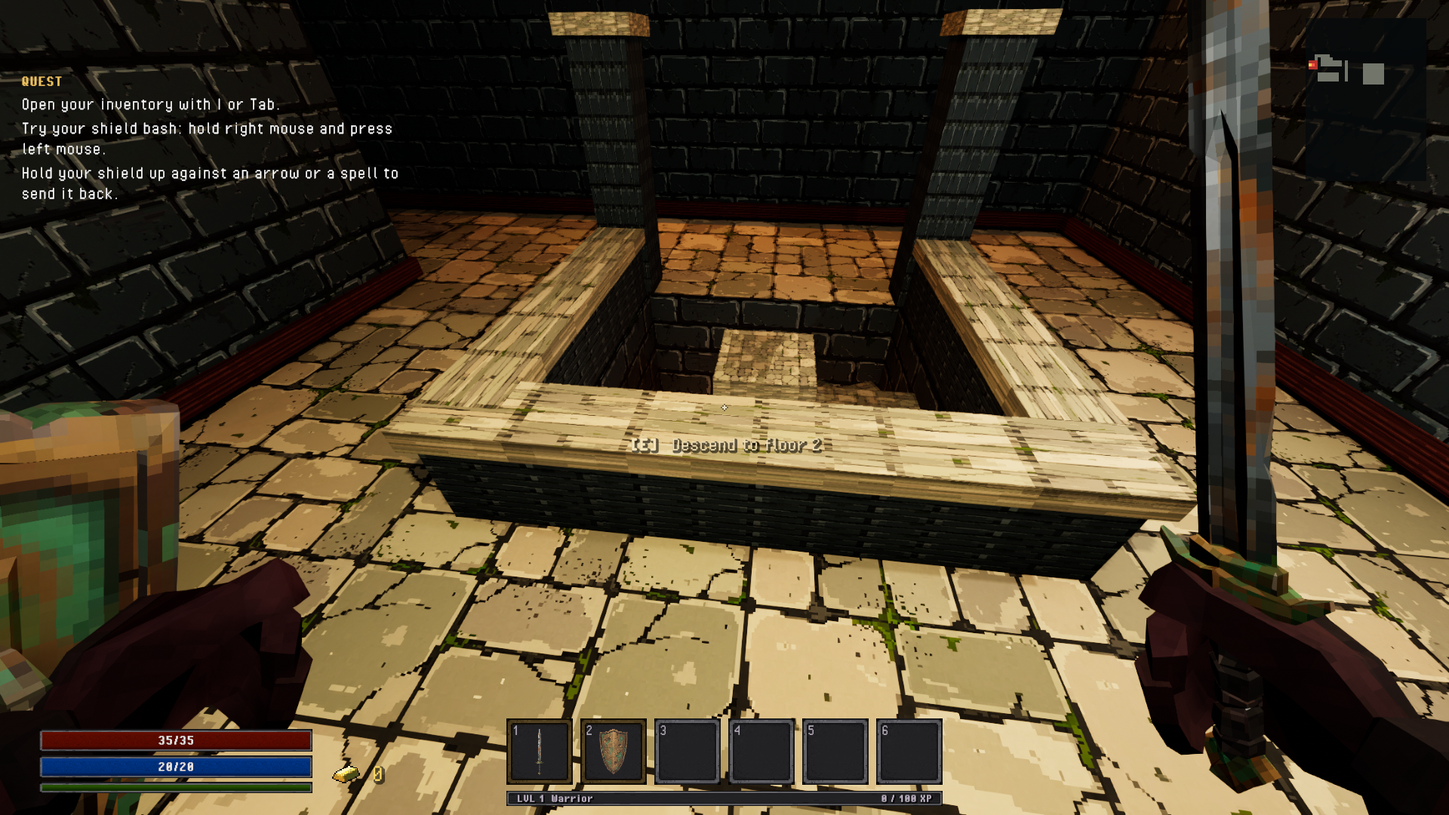
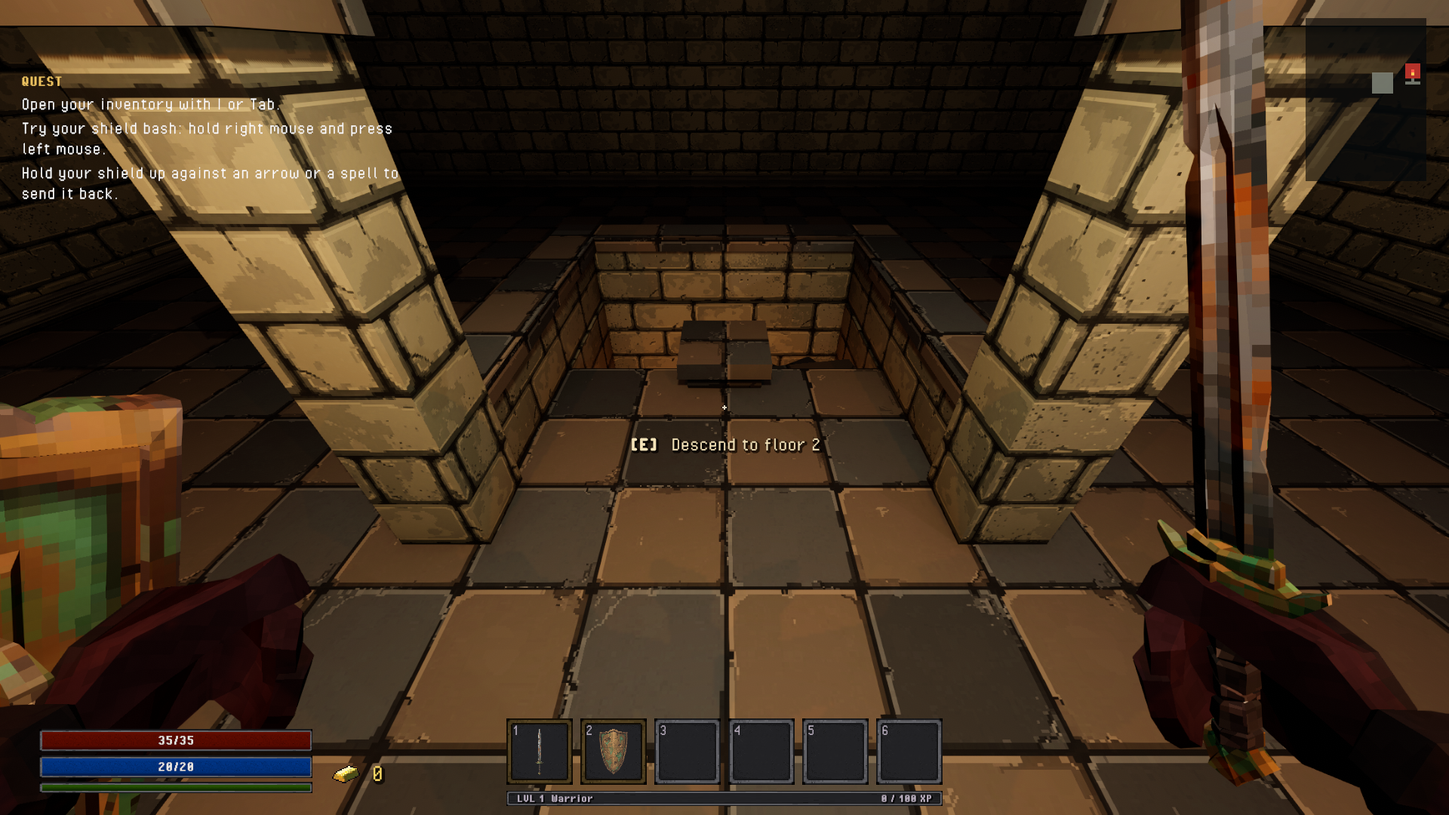
Level up plays only its sting, the UI Library's levelUp (now Mgc_Fading_Drops_Fire_01, saved in Room.unity, where it had only been set in the editor); the stat lines on the level up panel come in silently (LevelUpUI's tick removed). Work in progress from the other sessions: the exit shaft's stairs a

diff --git a/Assets/Game/Levels/Scripts/DungeonGenerator.ExitShaft.cs b/Assets/Game/Levels/Scripts/DungeonGenerator.ExitShaft.cs
@@ -23,7 +23,7 @@ public partial class DungeonGenerator
         // Every neighbour must be floor of the same room, so the kerb stands on floor all round.
         foreach (var d in DungeonLayout.Neighbours) if (!Layout.InRoom(region, cell + d)) return;
         float floorY = Cell(cell).y, size = data.cellSize;
-        float depth = Mathf.Min(2.6f, TableCut.SolidDepth(CellRect(cell), floorY) - .24f - .1f);
+        float depth = Mathf.Min(2f, TableCut.SolidDepth(CellRect(cell), floorY) - .24f - .1f);
         if (depth < 1.2f) return;
 
         // Open toward the room's way in (the doorway cell nearest the shaft).
@@ -107,20 +107,21 @@ public partial class DungeonGenerator
             }
         }
 
-        // The newel and the spiral: steps round it, each lower and further round, darker the deeper.
+        // The spiral starts at the mouth: the first step runs from the newel out to the mouth's edge, its top level with
+        // the floor, so the player walks straight onto it; the rest go on round the newel and down, each step wider
+        // than the gap to the next and reaching from the newel to the wall, darker the deeper.
         float newelR = .22f;
-        Part("Newel", new Vector3(0, -depth * .5f + .1f, .15f), new Vector3(newelR * 2f, depth + .2f, newelR * 2f), stone, .8f);
-        Part("Newel cap", new Vector3(0, .15f, .15f), new Vector3(newelR * 2f + .1f, .1f, newelR * 2f + .1f), stone);
-        int steps = 13; float turn = 330f / steps;
-        var axis = new Vector3(0, 0, .15f);
+        Part("Newel", new Vector3(0, -depth * .5f + .1f, 0), new Vector3(newelR * 2f, depth + .2f, newelR * 2f), stone, .8f);
+        Part("Newel cap", new Vector3(0, .15f, 0), new Vector3(newelR * 2f + .1f, .1f, newelR * 2f + .1f), stone);
+        int steps = 11; float start = 0f, turn = 330f / steps;
+        float rise = (depth - .3f) / (steps - 1), reach = half - .03f - newelR, r = newelR + reach * .5f;
+        float width = 2f * Mathf.PI * (newelR + reach) * (turn / 360f) + .08f;   // the outer edge overlaps the next step
         for (int i = 0; i < steps; i++)
         {
-            float a = -90f + i * turn, rad = a * Mathf.Deg2Rad;      // from the mouth side round the back
-            float y = -(i + 1) * (depth / (steps + .5f));
-            float r = newelR + (half - .08f - newelR) * .5f;
-            var at = axis + new Vector3(Mathf.Sin(rad) * r, y, -Mathf.Cos(rad) * r);
-            var s = Part("Spiral step", at, new Vector3(.42f, .1f, (half - .08f - newelR) + .04f), stone, Mathf.Lerp(.75f, .05f, i / (steps - 1f)), 0f, null, true);
-            // Each step's length runs out from the newel.
+            float a = start + i * turn, rad = a * Mathf.Deg2Rad;
+            float top = -i * rise;
+            var at = new Vector3(Mathf.Sin(rad) * r, top - .06f, -Mathf.Cos(rad) * r);
+            var s = Part("Spiral step", at, new Vector3(width, .12f, reach), stone, Mathf.Lerp(1f, .4f, i / (steps - 1f)), 0f, null, true);
             s.transform.rotation = root.rotation * Quaternion.LookRotation(new Vector3(Mathf.Sin(rad), 0f, -Mathf.Cos(rad)));
         }
         // Far below: a warm glow, as if a lamp burns on the next floor.

diff --git a/Assets/Game/Levels/Scripts/DungeonHud.cs b/Assets/Game/Levels/Scripts/DungeonHud.cs
@@ -7,6 +7,7 @@ public class DungeonHud : MonoBehaviour
     GameObject canvasRoot;
     Texture2D map;
     bool[,] shop, exitRoom;
+    bool pocket;
     RawImage mapImage;
     bool[,] explored;
     float next;
@@ -47,8 +48,10 @@ public class DungeonHud : MonoBehaviour
         {
             shop=new bool[w,h];exitRoom=new bool[w,h];
             if(dungeon.MerchantRoom>=0)foreach(var c in dungeon.Layout.RoomCells(dungeon.MerchantRoom))if(c.x>=0 && c.y>=0 && c.x<w && c.y<h)shop[c.x,c.y]=true;
-            int exit=dungeon.Layout.RoomAt(dungeon.Layout.Exit);
-            if(exit<0 && dungeon.Roles!=null)exit=System.Array.IndexOf(dungeon.Roles,DungeonGenerator.RoomRole.Exit);
+            // A pocket (the Skeleton Party) has no exit: its last room is where the portal back stands.
+            pocket=dungeon.LevelData!=null && dungeon.LevelData.pocket;
+            int exit=pocket ? -1 : dungeon.Layout.RoomAt(dungeon.Layout.Exit);
+            if(exit<0 && !pocket && dungeon.Roles!=null)exit=System.Array.IndexOf(dungeon.Roles,DungeonGenerator.RoomRole.Exit);
             if(exit>=0)foreach(var c in dungeon.Layout.RoomCells(exit))if(c.x>=0 && c.y>=0 && c.x<w && c.y<h)exitRoom[c.x,c.y]=true;
         }
         for(int x=0;x<w;x++)for(int y=0;y<h;y++)
@@ -58,7 +61,7 @@ public class DungeonHud : MonoBehaviour
             if(explored[x,y] && dungeon.Layout.floor[x,y])color=shop[x,y] ? new Color(.36f,.68f,.34f,.95f) : new Color(.46f,.48f,.43f,.92f); // the shop room shows green
             // The exit room shows red, its stairs a brighter red.
             if(explored[x,y] && dungeon.Layout.floor[x,y] && exitRoom[x,y])color=new Color(.72f,.2f,.17f,.95f);
-            if(explored[x,y] && new Vector2Int(x,y)==dungeon.Layout.Exit)color=new Color(1f,.35f,.28f);
+            if(!pocket && explored[x,y] && new Vector2Int(x,y)==dungeon.Layout.Exit)color=new Color(1f,.35f,.28f);
             if(x==px && y==py)color=new Color(1,.8f,.33f);
             map.SetPixel(x,y,color);
         }

diff --git a/Assets/Game/UI/Scripts/LevelUpUI.cs b/Assets/Game/UI/Scripts/LevelUpUI.cs
@@ -4,7 +4,7 @@ using TMPro;
 using UnityEngine;
 
 // The level up at the top middle of the screen: "LEVEL UP" lands big with the level under it, then what the level
-// gave comes in one line at a time with a soft tick ("+3 Health"), each line fading away a while after it came, the
+// gave comes in one line at a time ("+3 Health"), each line fading away a while after it came, the
 // title last. A second level while it shows starts it again with the new level and both levels' lines. Authored under
 // the HUD canvas: a group, the title, the level line and one stat line template (switched off, cloned per line).
 // The level up sting itself is AudioManager's levelUp key (AdventurerProgress plays it).
@@ -14,8 +14,6 @@ public class LevelUpUI : MonoBehaviour
     [SerializeField] TMP_Text title;
     [SerializeField] TMP_Text levelLine;
     [SerializeField, Tooltip("One stat line, switched off; cloned per line.")] TMP_Text statTemplate;
-    [SerializeField] AudioClip statSound;
-    [SerializeField, Range(0f, 1f)] float statVolume = .6f;
     [SerializeField, Min(0f), Tooltip("From the title landing to the first stat line, then between lines.")] float firstStatDelay = .7f, statGap = .45f;
     [SerializeField, Min(0f), Tooltip("How long each stat line stays before it fades.")] float statHold = 2.2f;
     [SerializeField, Min(.05f)] float statFade = .8f;
@@ -106,7 +104,6 @@ public class LevelUpUI : MonoBehaviour
             line.alpha = 0f;
             lines.Add(line);
             var rect = line.rectTransform;
-            show.InsertCallback(at, () => { if (statSound != null && AudioManager.HasInstance) AudioManager.Instance.PlaySFX2D(statSound, statVolume); });
             show.Insert(at, line.DOFade(1f, .2f));
             show.Insert(at, DOTween.To(() => 0f, x => rect.localScale = Vector3.one * (1.25f - .25f * x), 1f, .25f).SetEase(Ease.OutQuad));
             show.Insert(at + statHold, line.DOFade(0f, statFade).OnComplete(() => gone.Add(line)));

diff --git a/CLAUDE.md b/CLAUDE.md
@@ -56,7 +56,7 @@ All game code lives in `Assets/Game/<Area>/Scripts` (paths below are relative to
 | Dungeon Master's words | Two systems. **Simple lines with audio**: lines typed on the components that say them (`DungeonMaster.Line`: text, voice `AudioData`, mumble, in person or in your head) and each level's Dialogue tab, plus the biome entry lines; said through `DungeonMaster.Say`. `Dialogue/Scripts/DungeonMasterRemarks.cs` (on the Dialogue Manager) decides when each plays (waking, idling, the door, a forgotten figure, sitting down, run start, a new deepest floor). **Conversations**: the Pixel Crushers Dialogue Database, `Table/Introduction` (the first time you talk to the DM; the table only answers "Talk to me first" until then, and the player goes to the figures when it ends) and `Room/Talk` (talking to the DM afterwards; choices filtered with Lua `GetFlag`, "Let's play." sets Lua `PlayNow` and goes to the table), shown by `Dialogue/UI/DM Dialogue UI` (a variant of the plugin's Computer Standard Dialogue UI styled like the DM feed: no names, PixelOperator at the feed's size and place (its foot 250 up, 1200 wide, the Dialogue Manager's canvas scaled like the HUD's, 1920 x 1080), whole lines with no typewriter, DM lines in the feed's cyan and quoted by `DialogueBridge.OnConversationLine`, choices just under the line, dim until hovered). The DM sits in a chair in the middle of the table's east long side, facing the player's side; `DungeonMasterSeat` on its Interact trigger plays the seated pose and gesture and starts the conversations. Story flags are `story.*` |
 | Run length and bosses | A dungeon's run is its Run tab's stages: each a biome, its number of floors and **Boss on last floor** (`TableLevelData.BiomeStage.boss`: the biome's guardian waits on the stage's last floor; off, the stage has no boss whatever the biome sets up); the read-only "The run" line spells it out (e.g. Floors 1-2 Cellars, Floors 3-4 Crypt (boss on 4)). Dungeon1 (the demo) is three floors, one biome each: Cellars (floor 1), Catacombs (floor 2, a copy of Cellars whose second-floor entries start on its first floor), Crypt (floor 3, the Crypt Lord; no stairs until he falls, then they read "Complete dungeon and return" and end the run in victory). Room styles come from the biomes only (the level's own Room Styles list is empty), two each: Cellars Church and Church4, Catacombs Church3 and Church6, Crypt Church2 and Church5. Every floor has a merchant (biome `merchantChance` 1). After the whole dungeon is won, using the table has the DM thank the player for playing the prototype, then a thank-you card (`Cinematics/Scripts/PrototypeEnd.cs` on TableManager, card authored next to the ending's end card) |
 | Table levels (town, dungeons) | `Levels/Scripts/*` (`TableLevelLoader`, `TableLevelReveal`, `DungeonGenerator` + `DungeonGenerator.Growth`, `DungeonLayout` + `DungeonLayout.Grown`, shapes in `DungeonShape`/`DungeonRoomShape`, furnishing in `DungeonPropRule`...), catalog `Levels/Resources/TableLevels.asset`. The level's `startingRoom` is a room template prefab (Dungeon1: `Rooms/Templates/Starting room`) used as room 0 on floor 1 and on the first floor of each new biome; the player spawns at its centre facing its one door, which gets the level's door prefab (Grown layouts). Layout styles are Grown (the default) and Authored; Partition is retired (a level still set to it builds as Grown with a warning). A `DungeonRoomTemplate` can hold a whole room: painted footprint (`DungeonShapeGrid`, shared with `DungeonRoomShape`), style, height in tiles, `WallLight` sockets; in Prefab Mode it shows an unsaved preview of floor, walls and socket lights. Openings (Layout tab): Hide Roof opens skylights (a ceiling frame of `skylightFrame` with a trim lip stays round each opening; neighbouring open cells join into one), Hide Edges puts windows in outer walls (sill, lintel, jambs and ledge; the full wall stays as collision). A template's `openCeiling` gives its room a near-full skylight (the starting room's way in; the reveal flies through it). Walls, floors and ceilings are merged per material (`DungeonStaticGeometry`; the pieces keep their colliders, switched-off renderers): 8-cell chunks at build, so the reveal lifts the floor in pieces, then 32-cell chunks once the reveal is over (`DungeonGenerator.MergeForPlay` from `TableLevelLoader`, `Coarsen`); chunks of only floor tiles cast no shadow (12% fewer draw calls on Dungeon1 floor 1). When the exit room doesn't fit the grid the newest grown rooms give up their place (`DungeonLayout.RemoveLastRoom`). Template props standing in a doorway are removed (`DungeonGenerator.ClearOpenings`; a portal, shrine, chest or merchant is moved a cell in instead). Ceilings are built in the reveal (after walls); with `WorldManager.hideTopForGenerations` (on) a generated floor shows no ceilings while it is seen from the room (the reveal included) and gets them back when the table player is inside (`DungeonGenerator.ShowCeilingsFor`) |
-| UI | `UI/Scripts/*`. `AnnouncementUI.Show(title, sub)` is the centre-screen line. HUD text over the world (interact prompt, gold counter, loot labels) and the XP bar's words use an underlay material (`UI/Fonts/PixelOperator Underlay.mat`, `PixelOperator-Bold Bar Text.mat`) so they read over bright props and the bar's fill; the boss bar is bright red with a light frame line. HUD lanes: the skill XP popup sits under the top bars, notifications under the DM feed, announcements wait while the level-up panel shows; the quest note shows only while exploring (not in menus, boss fights or the win ending, `TableManager.EndingRunning`); hotbar, vitals and XP bar fade out behind the shop, sheet and recap; the DM feed has a soft dark halo; notifications are off-white. **Settings** is one prefab (`UI/Prefabs/Settings screen.prefab`) used by the pause menu and the main menu (the menu scene has an InputManager for rebinding only; volumes and pixelation fall back to PlayerPrefs there): window mode, resolution, vsync, brightness (its own global volume, `UserSettings`), key rows incl. hotbar 1-6 and Pause in a scrolling list; key names are layout-independent. The pause menu has Main menu and Quit, both confirmed ("Your run picks up at the start of this floor" during a run). A character level gained in a run shows `UI/Scripts/LevelUpUI.cs` (HUD canvas > `Level up`, top middle; fed by `AdventurerProgress.LeveledUp`): "LEVEL UP" lands big with the level under it, then each gain ("+3 Health") comes in one at a time with a tick and fades; a level-up and the skill rank popup (`ExperienceBarUI`) take turns: a level-up waits for a popup already on screen, then goes ahead of the queued ones (`LevelUpUI.PlayWaiting`, `ExperienceBarUI.Resume`); each XP gain (a kill, a new floor) shows the level meter at the top middle (`UI/Scripts/LevelMeterUI.cs`, HUD canvas > `Level meter`: "LEVEL n", the gain as a pale stretch ahead of the fill, the fill running into it with a bright edge, a flash and the next level when one is reached, "+24 XP" rising beside it, then fading); the character panel has a thin level line under "LEVEL n" (`EquipmentPanelUI.levelProgress`, made by Character Panel Layout); the sting is AudioManager's `levelUp` key, `Audio/Clips/Level up/{Level up,Level up stat}.wav` from `Tools/level_up_sting.py`. Shop music: a `Merchant` crossfades to its `musicKey` (Music Library "shop") when the table player comes within `musicRadius` (8 m) and back to the floor's track, from where it left off, past `musicLeaveRadius` (11 m) or when the merchant goes (`AudioManager.CrossfadeMusic(key)`, `CrossfadeMusicAt`). One-shot sound effects share `AudioManager`'s 48-source pool (`sfxPoolSize`; Project Settings > Audio real voices 64): one clip plays at most `maxSameClip` (3) times at once and never twice within `sameClipGap`, and a full pool cuts the quietest or farthest sound (logged in development builds, `logCutSounds`). UI sounds, including skillUp, levelUp, shopTrade and the dmMumble1..6 syllables, are keys in AudioManager's UI Library. The DM's mumble voice is picked on AudioManager (Dungeon Master voice: `MumbleVoice` Syllables, Old, Blips, Animalese, Kazoo, Choir, Beast, Lute, Radio; `AudioManager.Voice.cs`; Old is `Audio/Data/DM babble.asset` from `Tools/dm_babble.py`, the rest `Audio/Data/DM voice <Voice>.asset` from `Tools/dm_voices.py <dir> <seed> <voice>`, each made a different way), with Test buttons that work outside Play mode. UI colours live on `UIManager` (Theme: shadow, panel, panel shading, frame, frame highlight, text, dim text; Status: health, mana, stamina, experience, gold, boss health, recent damage). Opt-in only: kit art follows the Theme through the `Kit Palette` material (a UI that should differ gets a copy of that material), other graphics follow a slot with a `UIColor` component. Kit sprites are greyscale value maps (black shadow, dark grey panel, light grey to white frame to highlight). All HUD menus use the inventory's look (plain grey frame panels, plain grey slot buttons that tint on hover, gold PixelOperator-Bold titles); `Tools > LoomRoom > UI > Apply Plain Style` (`UI/Scripts/Editor/PlainUIStyle.cs`) converts any panel, button or inset still on the old kit. The HUD (hotbar, health/mana/stamina bars, XP bar, buff frames, spell charge) follows `UIManager.hudStyle` (`HudStyle` Pixel = the old pixel kit, Rugged = the inventory's grey stone slots and frames with flat bar fills; default Rugged): each of its images has a `HudStyleImage` holding both looks, switched live also outside Play mode, and hotbar slots take their Rugged colours and gold equipped frame in `ItemSlotUI` (the hotbar marks what is in hand, weapon, shield and readied spell, with that gold frame in both HUD styles, `ItemSlotUI.equippedHighlight`); `Tools > LoomRoom > UI > Set Up HUD Styles` (`UI/Scripts/Editor/HudStyleSetup.cs`) adds both looks to new HUD images. The older kit is in `UI/Sprites/Kit` (sliced at 1/3 pixels-per-unit multiplier) and the TMP fonts `PixelOperator-Bold` (titles, numbers) and `PixelOperator` (body), the only pixel font (PIXEARG_ was removed on 2026-10-15). Table menu: `UI/Prefabs/Adventure/{Table adventures,Adventure Card}` |
+| UI | `UI/Scripts/*`. `AnnouncementUI.Show(title, sub)` is the centre-screen line. HUD text over the world (interact prompt, gold counter, loot labels) and the XP bar's words use an underlay material (`UI/Fonts/PixelOperator Underlay.mat`, `PixelOperator-Bold Bar Text.mat`) so they read over bright props and the bar's fill; the boss bar is bright red with a light frame line. HUD lanes: the skill XP popup sits under the top bars, notifications under the DM feed, announcements wait while the level-up panel shows; the quest note shows only while exploring (not in menus, boss fights or the win ending, `TableManager.EndingRunning`); hotbar, vitals and XP bar fade out behind the shop, sheet and recap; the DM feed has a soft dark halo; notifications are off-white. **Settings** is one prefab (`UI/Prefabs/Settings screen.prefab`) used by the pause menu and the main menu (the menu scene has an InputManager for rebinding only; volumes and pixelation fall back to PlayerPrefs there): window mode, resolution, vsync, brightness (its own global volume, `UserSettings`), key rows incl. hotbar 1-6 and Pause in a scrolling list; key names are layout-independent. The pause menu has Main menu and Quit, both confirmed ("Your run picks up at the start of this floor" during a run). A character level gained in a run shows `UI/Scripts/LevelUpUI.cs` (HUD canvas > `Level up`, top middle; fed by `AdventurerProgress.LeveledUp`): "LEVEL UP" lands big with the level under it, then each gain ("+3 Health") comes in one at a time and fades (no sound of its own); a level-up and the skill rank popup (`ExperienceBarUI`) take turns: a level-up waits for a popup already on screen, then goes ahead of the queued ones (`LevelUpUI.PlayWaiting`, `ExperienceBarUI.Resume`); each XP gain (a kill, a new floor) shows the level meter at the top middle (`UI/Scripts/LevelMeterUI.cs`, HUD canvas > `Level meter`: "LEVEL n", the gain as a pale stretch ahead of the fill, the fill running into it with a bright edge, a flash and the next level when one is reached, "+24 XP" rising beside it, then fading); the character panel has a thin level line under "LEVEL n" (`EquipmentPanelUI.levelProgress`, made by Character Panel Layout); the sting is AudioManager's `levelUp` key, set on the UI Library (now `Mgc_Fading_Drops_Fire_01`). Shop music: a `Merchant` crossfades to its `musicKey` (Music Library "shop") when the table player comes within `musicRadius` (8 m) and back to the floor's track, from where it left off, past `musicLeaveRadius` (11 m) or when the merchant goes (`AudioManager.CrossfadeMusic(key)`, `CrossfadeMusicAt`). One-shot sound effects share `AudioManager`'s 48-source pool (`sfxPoolSize`; Project Settings > Audio real voices 64): one clip plays at most `maxSameClip` (3) times at once and never twice within `sameClipGap`, and a full pool cuts the quietest or farthest sound (logged in development builds, `logCutSounds`). UI sounds, including skillUp, levelUp, shopTrade and the dmMumble1..6 syllables, are keys in AudioManager's UI Library. The DM's mumble voice is picked on AudioManager (Dungeon Master voice: `MumbleVoice` Syllables, Old, Blips, Animalese, Kazoo, Choir, Beast, Lute, Radio; `AudioManager.Voice.cs`; Old is `Audio/Data/DM babble.asset` from `Tools/dm_babble.py`, the rest `Audio/Data/DM voice <Voice>.asset` from `Tools/dm_voices.py <dir> <seed> <voice>`, each made a different way), with Test buttons that work outside Play mode. UI colours live on `UIManager` (Theme: shadow, panel, panel shading, frame, frame highlight, text, dim text; Status: health, mana, stamina, experience, gold, boss health, recent damage). Opt-in only: kit art follows the Theme through the `Kit Palette` material (a UI that should differ gets a copy of that material), other graphics follow a slot with a `UIColor` component. Kit sprites are greyscale value maps (black shadow, dark grey panel, light grey to white frame to highlight). All HUD menus use the inventory's look (plain grey frame panels, plain grey slot buttons that tint on hover, gold PixelOperator-Bold titles); `Tools > LoomRoom > UI > Apply Plain Style` (`UI/Scripts/Editor/PlainUIStyle.cs`) converts any panel, button or inset still on the old kit. The HUD (hotbar, health/mana/stamina bars, XP bar, buff frames, spell charge) follows `UIManager.hudStyle` (`HudStyle` Pixel = the old pixel kit, Rugged = the inventory's grey stone slots and frames with flat bar fills; default Rugged): each of its images has a `HudStyleImage` holding both looks, switched live also outside Play mode, and hotbar slots take their Rugged colours and gold equipped frame in `ItemSlotUI` (the hotbar marks what is in hand, weapon, shield and readied spell, with that gold frame in both HUD styles, `ItemSlotUI.equippedHighlight`); `Tools > LoomRoom > UI > Set Up HUD Styles` (`UI/Scripts/Editor/HudStyleSetup.cs`) adds both looks to new HUD images. The older kit is in `UI/Sprites/Kit` (sliced at 1/3 pixels-per-unit multiplier) and the TMP fonts `PixelOperator-Bold` (titles, numbers) and `PixelOperator` (body), the only pixel font (PIXEARG_ was removed on 2026-10-15). Table menu: `UI/Prefabs/Adventure/{Table adventures,Adventure Card}` |
 | Testing shortcuts | The toolbar **Debug** button (`Development/Editor/DebugDungeonToolbar.cs`, `Development/DebugDungeonSession.cs`) skips the intro and wake-up and loads `Development/Debug Dungeon/Debug Dungeon` instantly: an authored arena (one big lit room, no reveal), with `Debug Dungeon Settings.enemies` placed in an arc in front of the player, each just outside its detection radius, idle (optionally `retaliateOnly`), and `Debug Dungeon Settings.chests` (wood, iron, gold) to the player's right with the biome's loot; saves go to `loomroom-debug.json`. The toolbar **Dungeon** button generates the level picked in the dropdown next to it (the list is `WorldManager.debugDungeons`; the pick is remembered per user, `DebugDungeonSession.SelectedDungeon`) and plays it straight away; **Room** starts as the room player where they stand in the scene, with no intro, wake-up or character sheet (`DebugDungeonSession.RoomStart`: `ProgressionManager` skips the wake-up and moves `startAt` from New Game to After Character Sheet; the normal save); **Fullscreen** plays in a borderless Game view (F11 toggles it). **Boss** loads `Development/Debug Dungeon/Boss Debug` (an antechamber and the Crypt Lord's stage at the edge in front of the DM) and puts the player on the stage: walk to its middle to start the fight. F8 (Dev map) toggles god mode (`Development/DevGodMode.cs`: both players kept at full health, stamina and mana). `CombatTestBot`: `walkstage` walks to the stage's middle, `waitboss` waits for the fight, and `fight` turns to the DM and blocks his beam. Walking into a room logs `[Room] Floor n, room i (role): <template>  <asset path>` (or "generated, no template") in the Editor and development builds (`Levels/Scripts/DungeonGenerator.RoomLog.cs`); clicking the line selects the template prefab. The `Dev` input map (F1/F2 swap players, F5 mood preview) only exists in the Editor and development builds and only works in Explore. `ProgressionManager.startAt` (editor only: New Game, After Tutorial, After Character Sheet) sets the story flags of that point at Play. `Development/CombatTestBot.cs` is a scripted combat test driver for Play mode, started from an eval: `CombatTestBot.Run("place Soldier 1.6; face; capture 3 swing; attack; wait .6; attack")` (commands listed at the top of the file: place, face, attack, hold, block, spam, counter, wait, god, `cm <field> <value>`, freeze, goto, chest...); it logs swing and hit timings and `capture` writes 30 fps frames to `Temp/CombatTest/<name>` for frame sheets. `Development/DungeonStressTest.cs` (`DungeonStressTest.Run(levelPath, seeds, floors)`) builds many floors and reports any that fail (outside Play mode in a temporary scene, `BeginTestScene`/`EndTestScene`, so the open scene stays saved; use them for any test build); run it after changing a level, its templates or the generator (every level should pass with 0). `CombatTestBot` `fight <s> <metres> [block 0-1]` fights the nearest enemies like a plain player (it walks straight at them, so it falls into pits) and logs kills, hits taken and health. `Development/RoomEventTest.cs` (`RoomEventTest.Run()` from an eval in Play mode) checks the floor's room events (ambush, sleeping pack, trapped chest, shrine, pit fall and pit push) and writes `Temp/RoomTest/report.txt` and frames |
 | Runs, log, currency, pooling, settings | **Revive** on the death screen (`RunRecapUI.reviveButton`, `RunManager.RevivePlayer`): always in the Editor and development builds; in a release build once the save has `reviveAfterDeaths` (3) deaths (`RunManager.DeathsFlag` `story.deaths`, counted in `PlayDeath`, not the intro's practice run). The death that unlocks it has the DM say `reviveUnlockedLine` once (`story.reviveUnlocked`); every revive gets one of `reviveLines`, mocking it. `Game/Core/Scripts/{RunManager,MessageLog,PoolManager,UserSettings}.cs`, `Game/Items/Scripts/Currency/*` (CurrencyManager config, Wallet on the player), UI in `Game/UI/Scripts/{MessageLogUI,GoldCounterUI,BossBarUI,RunRecapUI,PauseMenuUI,SettingsUI,ShopUI}.cs` |
 | Level folders | `Levels/Scripts` (all level code, `Features/` for fountains and the like), `Levels/Resources` (only what code loads by name: `TableLevels.asset`, `DungeonLighting/`), `Levels/Shared/Reveal` (table assembly reveal), one folder per level: `Dungeon1/` (level, balance, card; `Biomes/`, `Doors/` = door prefab, its pixel texture and material, leaf and lintel meshes; `Materials/` default prop and wall materials; `Prefabs/{Features,Furnishing,Props}`; `Rooms/{Kit,Shapes,Templates}` (Kit = building blocks for hand-built rooms; Templates = fixed rooms: start, shop, arena; `Templates/Chunks` = the hand-built rooms biomes pick from by weight); `Styles/` + their textures; Cave1, Cave2, Nature1, Nature2 are natural styles in no level yet, made with `Tools/style_tiles.py` and `Tools/style_variants.py`, Church4, Church5 and Church6 are recoloured from the Church styles by `Tools/style_recolour.py` (no painting), see `Docs/Dungeon-room-styles.md`), `IntroDungeon/`, `Town/`. Generators for hand-made art live in `Tools/` (`door_texture.py`, `paper_card.py`, `dm_babble.py`) |

diff --git a/.claude/skills/loomroom-art/SKILL.md b/.claude/skills/loomroom-art/SKILL.md
@@ -261,6 +261,15 @@ can be fixed (crop, re-lay, colour match), regenerate what can't, and only then 
   `PixelRestyle.TexelsPerUnit(renderer, material)` (per material, so per submesh) and correct the UVs until it reads
   the target. Painted textures look blockier than their texels; matching that look by eye gave a door knob half the
   door's density (2026-10-14). When you change a tile's size, change its UV scale with it.
+- **Generated geometry uses the architecture's UVs, never a plain cube's.** Anything built in code from boxes (kerbs,
+  posts, caps, steps, platforms, stairs) with a wall, floor or trim material goes through `ArchitectureBox` (UVs in
+  world metres per architecture tile, so its texels match the walls and floor around it), never `Box` /
+  `CreatePrimitive` alone, which stretches the whole texture over each face: on the 2026-10-19 stairs down the kerb's
+  bricks were squeezed, its caps smeared into planks and the posts' bricks squashed, and the user saw it at once.
+- **Before showing anything built next to existing walls or floors, compare it with them in the same shot, zoomed:**
+  are its bricks the size of the wall's bricks, its flagstones the size of the floor's, its pixels the size of the
+  pixels beside it? Shape and light looking right is not a review; check the texel size against the neighbours every
+  time, and fix it before the user sees it.
 
 **Room surfaces**
 - Wall/ceiling paint from the concept's own wall (crop it as the reference). Scatter the painting's marks (flakes,
